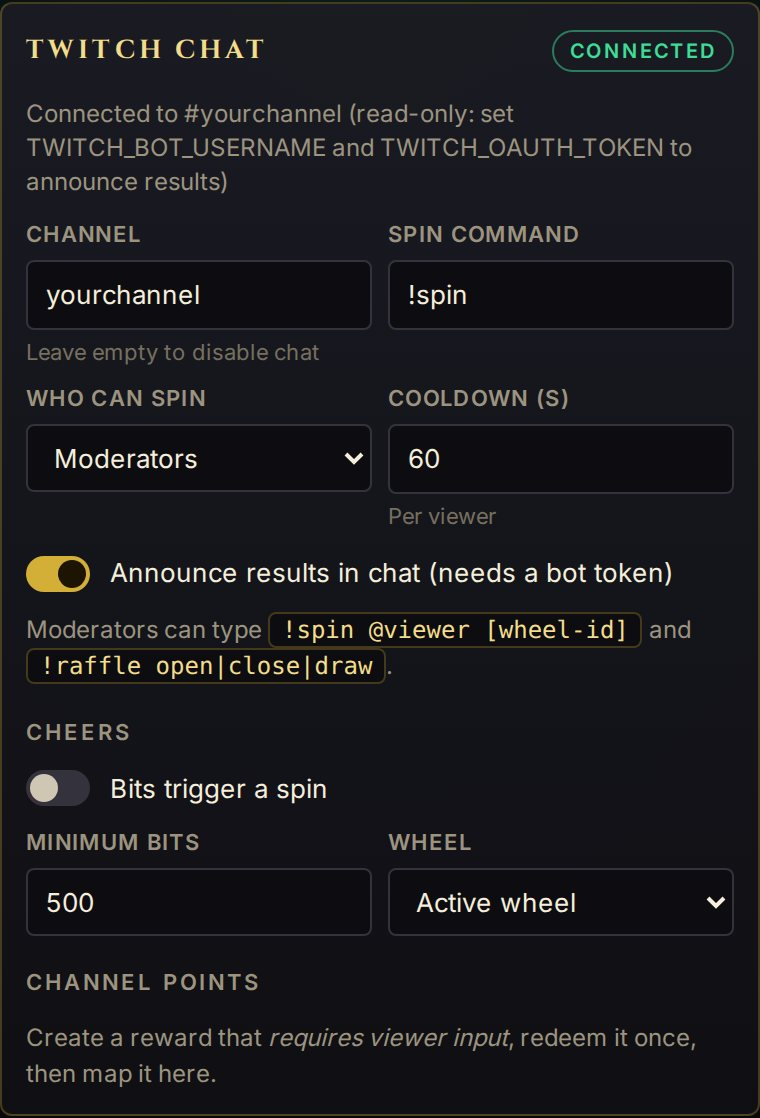
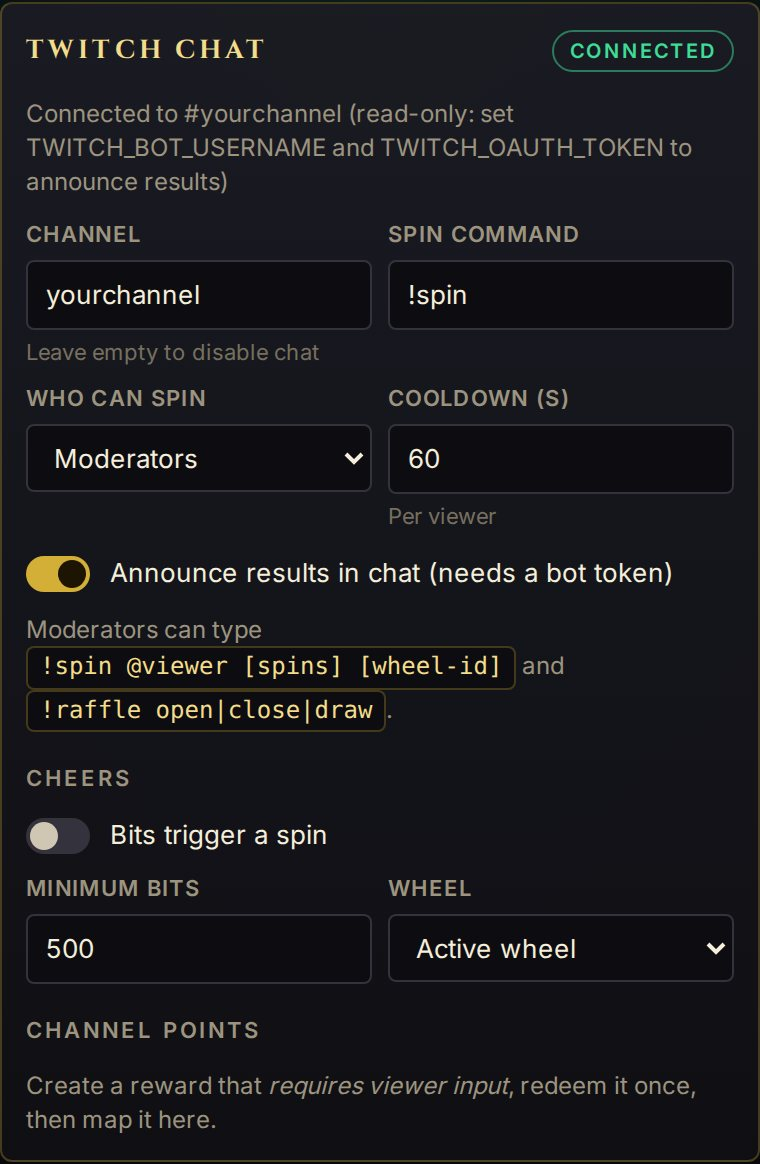
Fix setup tutorial after verifying every step
Ran each command and checked OBS/Twitch steps against current docs:
- Twitch: register the app as Confidential (Public apps cannot use the
  implicit token flow), 2FA requirement, copy only the access_token
  value, uncomment the .env lines, validate/expiry check, /mod the bot.
- OBS: Python 3.12 64-bit (OBS 30-32 cannot load 3.13+), hotkey names,
  audio monitoring to hear the wheel, refresh via Properties.
- Node 22.13+ (vite 8 / eslint 10 / vitest 5 floors); engines updated.
- Chat commands as a table including !join and wheel ids; channel points
  and bits need Affiliate/Partner; troubleshooting rows for cooldowns,
  token errors and port conflicts.
- Dock: hints now say "Docks → Custom Browser Docks" and
  "!spin @viewer [spins] [wheel-id]"; the Wheels tab shows the wheel id.
- Re-captured the Twitch settings screenshot, dropped an unused one.

Claude-Session: https://claude.ai/code/session_01JEP51JfxqSL7ZgmKvKgY99

diff --git a/src/web/dock/SettingsTab.tsx b/src/web/dock/SettingsTab.tsx
@@ -93,7 +93,7 @@ export function SettingsTab({
           onChange={(v) => set((s) => (s.twitch.announceResults = v))}
         />
         <p class="hint">
-          Moderators can type <kbd>{draft.twitch.spinCommand} @viewer [wheel-id]</kbd> and{' '}
+          Moderators can type <kbd>{draft.twitch.spinCommand} @viewer [spins] [wheel-id]</kbd> and{' '}
           <kbd>!raffle open|close|draw</kbd>.
         </p>
 
@@ -340,8 +340,7 @@ export function SettingsTab({
           </div>
         ))}
         <p class="hint">
-          Browser Source: 1080 × 1080, tick “Control audio via OBS”. Dock: View → Docks → Custom Browser
-          Docks.
+          Browser Source: 1080 × 1080, tick “Control audio via OBS”. Dock: Docks → Custom Browser Docks.
         </p>
       </Section>
 

diff --git a/src/web/dock/WheelsTab.tsx b/src/web/dock/WheelsTab.tsx
@@ -109,6 +109,13 @@ export function WheelsTab({ state, send }: { state: AppState; send: Send }) {
             </option>
           ))}
         </select>
+        <p class="hint">
+          Wheel id <kbd>{wheel.id}</kbd> for{' '}
+          <kbd>
+            {config.settings.twitch.spinCommand} @viewer [spins] {wheel.id}
+          </kbd>{' '}
+          and the API.
+        </p>
         <div class="grid">
           <Field label="Name">
             <input

diff --git a/src/web/dock/dock.css b/src/web/dock/dock.css
@@ -435,6 +435,8 @@ input[type='range'] {
 }
 
 kbd {
+  display: inline-block;
+  white-space: nowrap;
   padding: 1px 6px;
   border: 1px solid var(--fw-line);
   border-radius: 4px;

diff --git a/README.md b/README.md
@@ -4,9 +4,9 @@ A classy casino-style prize wheel for OBS and Twitch: money games, prize categor
 rendered as a transparent browser-source overlay and driven from an OBS dock.
 
 <p align="center">
-  <img src="docs/overlay-wheel.jpg" width="360" alt="Lucky Dollars wheel with amounts on every slice" />
-  <img src="docs/overlay-total.jpg" width="360" alt="Total winnings screen after a 3-spin game" />
-  <img src="docs/dock.jpg" width="176" alt="Control dock" />
+  <img src="docs/overlay-wheel.jpg" width="320" alt="Lucky Dollars wheel with amounts on every slice" />
+  <img src="docs/overlay-total.jpg" width="320" alt="Total winnings screen after a 3-spin game" />
+  <img src="docs/dock.jpg" width="156" alt="Control dock" />
 </p>
 
 ## Features
@@ -30,7 +30,8 @@ rendered as a transparent browser-source overlay and driven from an OBS dock.
 
 ## Setup: OBS + Twitch in 10 minutes
 
-You need [Node.js](https://nodejs.org) 20.12+ (LTS), [git](https://git-scm.com) and OBS Studio 30+.
+You need [Node.js](https://nodejs.org) 22.13+ (24 LTS recommended), [git](https://git-scm.com) and OBS Studio
+30+ (on Linux use the official Flatpak or PPA: some distro packages lack the Browser source).
 
 ### 1. Start the server
 
@@ -42,7 +43,7 @@ npm run build
 npm start
 ```
 
-Keep this terminal open while you stream. Check it from a second terminal:
+Keep this terminal open while you stream. Check it from a second terminal (`curl.exe` in Windows PowerShell):
 
 ```bash
 curl http://localhost:4747/api/health
@@ -63,20 +64,20 @@ The background stays transparent. Run a 3-spin test game and watch it play in OB
 
 ```bash
 curl -X POST http://localhost:4747/api/command -H 'Content-Type: application/json' \
-  -d '{"type":"spin","player":"Tester","spins":3}'
+  -d '{"type":"spin","player":"VelvetViper","spins":3}'
 ```
 
 ```powershell
 # Windows PowerShell
-Invoke-RestMethod -Method Post http://localhost:4747/api/command -ContentType 'application/json' -Body '{"type":"spin","player":"Tester","spins":3}'
+Invoke-RestMethod -Method Post http://localhost:4747/api/command -ContentType 'application/json' -Body '{"type":"spin","player":"VelvetViper","spins":3}'
 ```
 
-<p align="center"><img src="docs/overlay-result.jpg" width="420" alt="Overlay during a 3-spin game: $5 won, bank at $8" /></p>
+<p align="center"><img src="docs/overlay-result.jpg" width="420" alt="Overlay during a 3-spin game: $5 won, bank at $8 (preview background)" /></p>
 
 ### 3. Add the control dock
 
 In OBS: **Docks → Custom Browser Docks…**, Dock Name `FinWheel`, URL `http://localhost:4747/dock/`, **Apply**.
-Drag the panel where you like. To play: pick a wheel, type the player, choose the spins, press **Spin**.
+It opens floating: drag it into place. To play: pick a wheel, type a player, set the spins, press **Spin**.
 
 <p align="center"><img src="docs/setup-dock-play.jpg" width="380" alt="Dock Play tab: wheel chips, player name, spins stepper and Spin button" /></p>
 
@@ -85,79 +86,98 @@ Drag the panel where you like. To play: pick a wheel, type the player, choose th
 In the dock: **Settings → Twitch chat → Channel** = your channel name → **Save settings**. The badge turns
 **connected** (reading chat needs no login). Try it in your chat:
 
-```text
-!spin                        you play the active wheel (broadcaster/mods)
-!spin @friend 5 high-roller  friend plays 5 spins on High Roller
-!raffle open                 viewers enter with !join
-!raffle draw                 winner spins The Grand Wheel
-```
+| Type in chat                  | What happens                                                        |
+| ----------------------------- | ------------------------------------------------------------------- |
+| `!spin`                       | You play the active wheel                                           |
+| `!spin @friend 5 high-roller` | Mods: friend plays 5 spins on High Roller (any order, all optional) |
+| `!raffle open`                | Mods: open the raffle (`!raffle close` stops entries)               |
+| `!join`                       | Anyone: enter the raffle (subscribers get 2 tickets)                |
+| `!raffle draw`                | Mods: draw a winner, who then spins The Grand Wheel                 |
 
-To let viewers type `!spin` themselves, set **Who can spin** to _Everyone_ (or _Subscribers_) and keep a
-cooldown.
+Wheel ids (shown in the dock's **Wheels** tab): `lucky-dollars`, `high-roller`, `diamond-table`, `grand`,
+`prize-vault`, `dares`. To let viewers type `!spin`, set **Who can spin** to _Everyone_ or _Subscribers_.
 
 <p align="center">
-  <img src="docs/setup-dock-twitch.jpg" width="320" alt="Dock Twitch chat settings, connected" />
+  <img src="docs/setup-dock-twitch.jpg" width="380" alt="Dock Twitch chat settings, connected" />
   <img src="docs/overlay-raffle.jpg" width="420" alt="Raffle wheel filled with entrants and the !join badge" />
 </p>
 
 ### 5. Announce results in chat (optional)
 
-FinWheel needs a chat token for the account that posts (your channel or a bot account):
+FinWheel posts with the account that owns the token (your channel or a bot account):
 
-1. [dev.twitch.tv/console/apps](https://dev.twitch.tv/console/apps) → **Register Your Application**: OAuth
-   Redirect URL `http://localhost`, Category _Chat Bot_, Client Type _Public_. Copy the **Client ID**.
-2. Logged in as the posting account, open (replace `YOUR_CLIENT_ID`):
-   `https://id.twitch.tv/oauth2/authorize?response_type=token&client_id=YOUR_CLIENT_ID&redirect_uri=http://localhost&scope=chat:read+chat:edit`
-   → **Authorize**. The browser lands on a page that does not load, with
-   `http://localhost/#access_token=abc123…` in the address bar: copy that token.
-3. Put it in `.env` (`copy .env.example .env` on Windows) and restart `npm start`:
+1. Turn on 2FA (Twitch **Settings → Security and Privacy**), then
+   [dev.twitch.tv/console/apps](https://dev.twitch.tv/console/apps) → **Register Your Application**: any unique
+   name, OAuth Redirect URL `http://localhost` → **Add**, Category _Chat Bot_, Client Type _Confidential_ →
+   **Create**. Click **Manage** and copy the **Client ID**.
+2. Logged in as the posting account, open this URL with your Client ID, then **Authorize**:
 
-```bash
-cp .env.example .env
-```
+   ```text
+   https://id.twitch.tv/oauth2/authorize?response_type=token&client_id=YOUR_CLIENT_ID&redirect_uri=http://localhost&scope=chat:read+chat:edit
+   ```
 
-```ini
-TWITCH_BOT_USERNAME=yourbot
-TWITCH_OAUTH_TOKEN=abc123yourtoken
-```
+   The page fails to load; its address bar shows `http://localhost/#access_token=abc123…&scope=…`. Copy only
+   the part between `access_token=` and `&`.
 
-Results, raffle openings and winners are now posted in chat. Tokens expire after a while: repeat step 2 when
-announcements stop.
+3. In the `finwheel` folder, copy the example settings, then remove the `# ` in front of the two `TWITCH_`
+   lines and fill them in:
 
-### 6. Channel points and bits (optional)
+   ```bash
+   cp .env.example .env
+   ```
 
-- **Channel points:** in the Twitch Creator Dashboard create a custom reward and tick **Require Viewer to Enter
-  Text** (other rewards never reach chat). Redeem it once, then in the dock **Settings → Channel points**
-  click **Map** next to it, pick a wheel, **Save settings**.
+   ```ini
+   TWITCH_BOT_USERNAME=yourbot
+   TWITCH_OAUTH_TOKEN=abc123yourtoken
+   ```
+
+   `TWITCH_BOT_USERNAME` is the login of the account you authorized. Restart `npm start`; the Twitch chat card
+   no longer says _read-only_. Bot account? Type `/mod yourbot` in your chat so slow or followers-only mode can't
+   block it.
+
+The token lasts about 60 days. Check it with
+`curl -H "Authorization: OAuth abc123yourtoken" https://id.twitch.tv/oauth2/validate`; when the badge says
+**error**, chat commands stop too: repeat 5.2, update `.env`, restart.
+
+### 6. Channel points and bits (optional, Affiliate/Partner)
+
+- **Channel points:** [Creator Dashboard](https://dashboard.twitch.tv) → **Viewer Rewards → Channel Points →
+  Manage Rewards → Add New Custom Reward**, turn on **Require Viewer to Enter Text** (other rewards never reach
+  chat). Redeem it once, then in the dock **Settings → Channel points** click **Map**, pick a wheel,
+  **Save settings**.
 - **Bits:** **Settings → Cheers** → enable _Bits trigger a spin_, set the minimum and the wheel, **Save settings**.
 
 ### 7. OBS hotkeys (optional)
 
-1. Install [Python 3](https://www.python.org/downloads/), then in OBS **Tools → Scripts → Python Settings**
-   select its install folder.
-2. **Scripts → +** → `obs/finwheel_hotkeys.py`.
-3. **Settings → Hotkeys** → search `FinWheel` → bind _Spin_, _Spin next_, _Draw raffle winner_, …
+1. Windows/macOS: install [Python 3.12](https://www.python.org/downloads/release/python-31210/) (64-bit; OBS
+   30–32 cannot load 3.13+). In OBS **Tools → Scripts → Python Settings**, pick the folder that holds
+   `python312.dll` (usually `%LOCALAPPDATA%\Programs\Python\Python312`) or `/Library/Frameworks` on macOS.
+   Linux: skip, OBS uses the system Python.
+2. **Tools → Scripts → +** → `obs/finwheel_hotkeys.py`. Changed `PORT` or set `FINWHEEL_TOKEN`? Fill in the
+   script's **Server URL** / **Control token**.
+3. **Settings → Hotkeys** → type `FinWheel` in **Filter** → bind _FinWheel: Spin the active wheel_, _Spin next in
+   queue_, _Draw raffle winner_, … (macOS: allow OBS in **Privacy & Security → Input Monitoring** so hotkeys work
+   while a game has focus).
 
 ### Troubleshooting
 
-| Problem                       | Fix                                                                                                                                     |
-| ----------------------------- | --------------------------------------------------------------------------------------------------------------------------------------- |
-| Overlay is empty              | Is `npm start` running? `curl http://localhost:4747/api/health`, then right-click the source → **Refresh**.                             |
-| No sound                      | Tick **Control audio via OBS** and unmute `FinWheel` in the Audio Mixer.                                                                |
-| Chat commands ignored         | **Settings** badge must say _connected_. By default only the broadcaster and mods can `!spin`.                                          |
-| Channel-point reward ignored  | The reward must **require viewer text**.                                                                                                |
-| `Port 4747 is already in use` | FinWheel is already running, or pick another port: `PORT=4848 npm start` (PowerShell: `$env:PORT=4848; npm start`) and update the URLs. |
+| Problem                       | Fix                                                                                                                                                                             |
+| ----------------------------- | ------------------------------------------------------------------------------------------------------------------------------------------------------------------------------- |
+| Overlay is empty              | Is `npm start` running? Check `curl http://localhost:4747/api/health`, then in the source's **Properties** click **Refresh cache of current page**.                             |
+| No sound                      | Tick **Control audio via OBS** and unmute `FinWheel` in the Audio Mixer. To hear it yourself: **Edit → Advanced Audio Properties** → `FinWheel` → **Monitor and Output**.       |
+| Chat commands ignored         | The **Settings** badge must say _connected_. By default only the broadcaster and mods can `!spin`; viewers get one game per cooldown (60 s) and none while already queued.      |
+| Badge says _error_            | The Twitch token expired or is wrong: redo step 5.2, update `.env`, restart `npm start`.                                                                                        |
+| Channel-point reward ignored  | The reward must **require viewer text**.                                                                                                                                        |
+| `Port 4747 is already in use` | FinWheel is already running: use that one (or stop it with Ctrl+C). Another app owns 4747? `PORT=4848 npm start` (PowerShell: `$env:PORT=4848; npm start`) and use 4848 in OBS. |
 
 Overlay URL options: `?preview` adds a felt background to test in a normal browser, `?mute=1` silences one source.
 
 ## Playing
 
-1. Pick a wheel in the dock's **Play** tab, type the player's name, choose the number of spins, press **Spin**.
-2. Each spin shows its slice and the running **bank** (top-left badge on the overlay).
-3. After the last spin (or a bankrupt), the **total winnings** screen appears.
-
-Requests that arrive while a game is running wait in the **queue** and play automatically (or one by
-one with _Spin next_ if auto-advance is off).
+Each spin shows its slice and the running **bank** (top-left badge). When a game of 2+ spins ends (last spin
+or bankrupt), the **total winnings** screen lists every spin; a 1-spin game ends on its result card. Requests
+that arrive mid-game wait in the **queue** and play automatically (or one by one with _Spin next_ if
+auto-advance is off).
 
 ### Slice effects
 
@@ -174,17 +194,6 @@ one with _Spin next_ if auto-advance is off).
 
 Money slices print their amount on the wheel automatically (`$10`, `×2 TOTAL`, `+1 FREE SPIN`), computed
 from these fields so the display always matches the payout.
-
-## Chat commands
-
-| Chat                            | Who                    | Effect                                                        |
-| ------------------------------- | ---------------------- | ------------------------------------------------------------- |
-| `!join`                         | everyone, raffle open  | Enter the raffle (keyword is configurable)                    |
-| `!spin`                         | configurable, cooldown | Queue a game for yourself on the active wheel                 |
-| `!spin @viewer 5 high-roller`   | moderators             | Queue a game for someone: spins and wheel optional, any order |
-| `!raffle open \| close \| draw` | moderators             | Run the raffle from chat                                      |
-| Channel-point reward            | everyone               | Mapped reward → game on a chosen wheel                        |
-| Cheer ≥ minimum bits            | everyone               | Game on a chosen wheel                                        |
 
 ## HTTP API
 
@@ -216,7 +225,8 @@ Commands: `spin`, `spinNext`, `queue.add`, `queue.remove`, `queue.clear`, `wheel
 The server listens on `127.0.0.1` only. It rejects requests whose `Host` is not local (DNS rebinding) and
 cross-site `Origin`s, so a web page you visit cannot spin your wheel. If you expose it on the network
 (`HOST=0.0.0.0`, e.g. a second streaming PC), set `FINWHEEL_TOKEN` and open the dock with
-`/dock/?token=…`; the overlay keeps working without the token (read-only).
+`/dock/?token=…`; the overlay keeps working without the token (read-only). API calls and the OBS script then
+need it too: `-H 'Authorization: Bearer <token>'`, and the script's **Control token** field.
 
 ## Development
 
